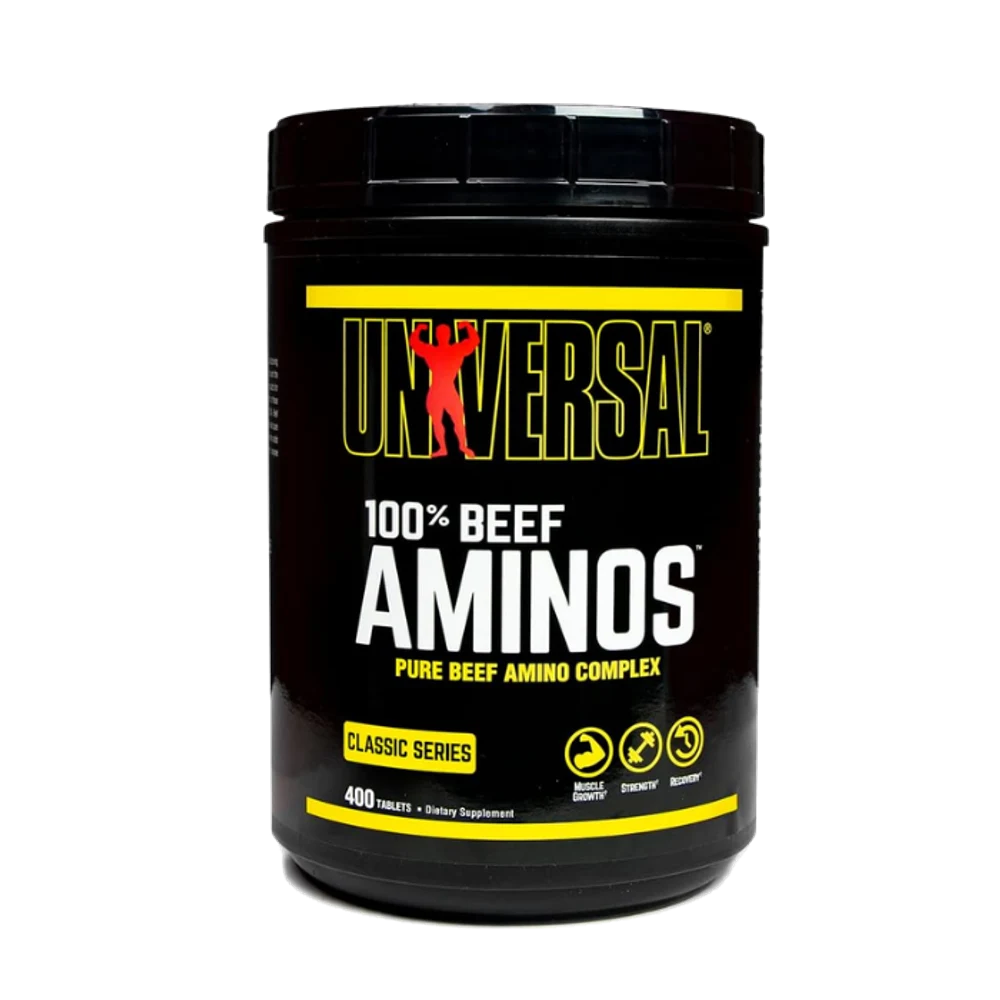
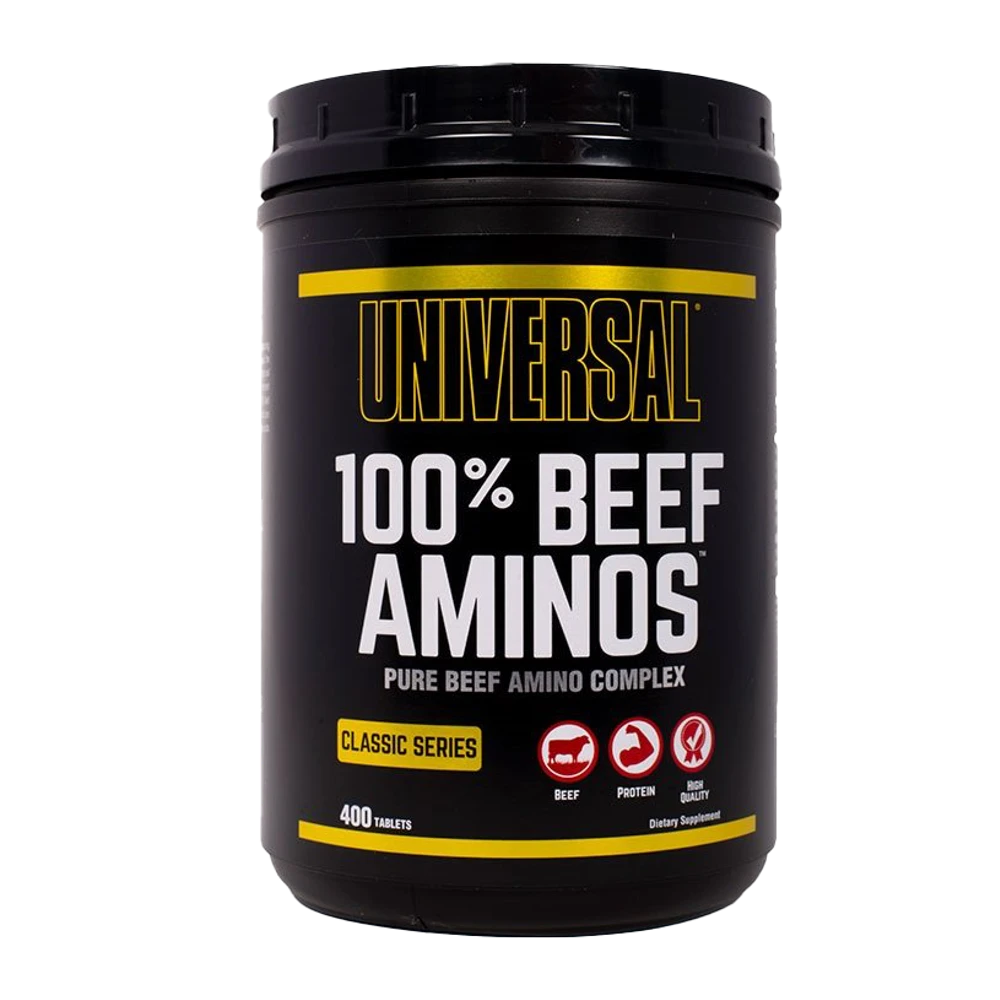
Use a sharper photo for Universal 100% Beef Aminos
The old pack shot was a blurry upscale. The new one is a clean 750 px
transparent photo of the current Classic Series tub, padded to a square
canvas. Same file name, so no re-seed is needed.

Changed region(s): [[0.248, 0.062, 0.806, 0.961]]

diff --git a/scripts/seed-brand-products.ts b/scripts/seed-brand-products.ts
@@ -3381,8 +3381,9 @@ const products: BrandProduct[] = [
     // Universal's own site has no product pages any more. Label from the
     // NIH Dietary Supplement Label Database (dsld id 274618, Classic Series
     // 400 tablets): 400 ÷ 3 ≈ 133 servings. Pack photo from a retailer
-    // (lifepharmacy.com), backdrop cut out. The label's "typical amino acid
-    // profile" says grams per 100 g but lists mg values, so it is left out.
+    // (mysupplementshop.co.uk: 750 px transparent pack shot, padded to a
+    // square; the earlier lifepharmacy.com photo was blurry). The label's
+    // "typical amino acid profile" says grams per 100 g but lists mg values, so it is left out.
     description:
       "بیف آمینو یونیورسال (سری کلاسیک)؛ قرص اسید آمینه از ایزولهی پروتئین گوشت گاو و جگر خشکشدهی گاو آرژانتینی، با همهی اسیدهای آمینهی ضروری (EAA) از جمله BCAA، بهصورت آهستهرهش. هر قرص ۱ گرم پروتئین دارد؛ هر وعده ۳ قرص است و قوطی ۴۰۰ قرصی حدود ۱۳۳ وعده است. بدون گلوتن.\nمواد تشکیلدهنده: کمپلکس اسید آمینهی ۱۰۰٪ گوشت گاو (ایزولهی پروتئین گوشت گاو، جگر خشکشدهی گاو آرژانتینی)، دیکلسیم فسفات، سلولز میکروکریستالی، استئاریک اسید، استئارات منیزیم، پوشش دارویی.",
     servingSize: "۳ قرص",
